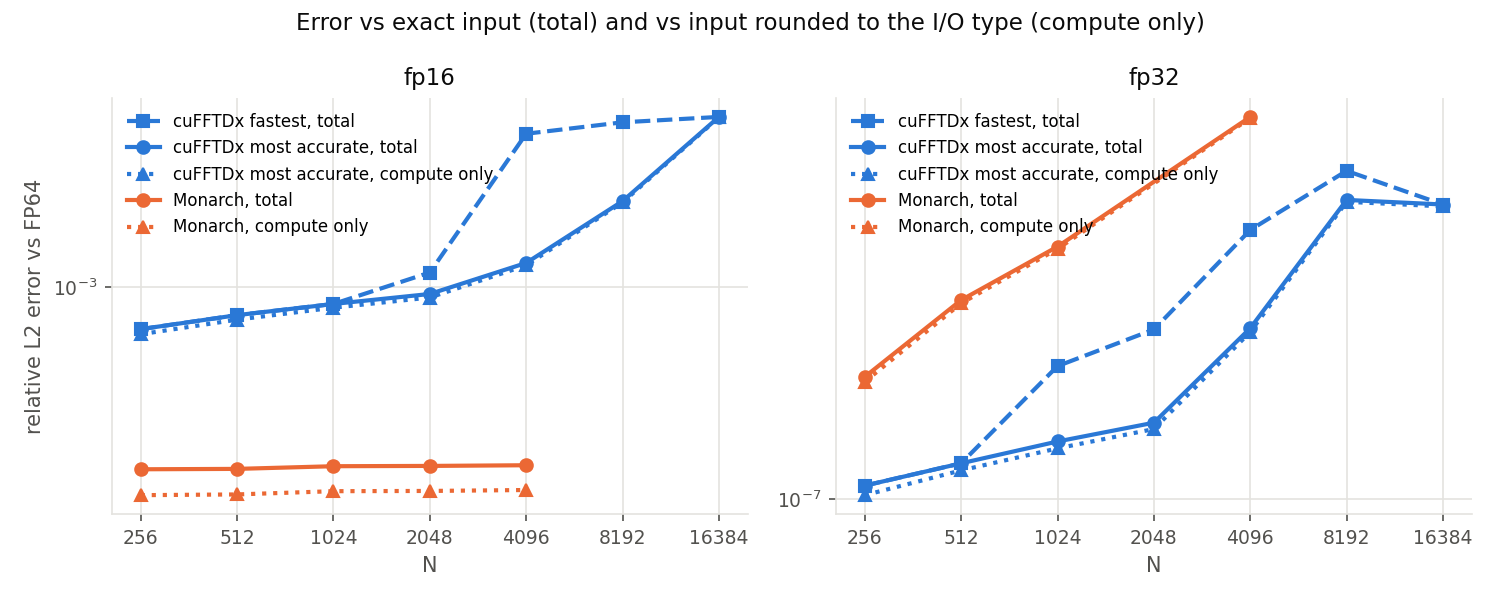
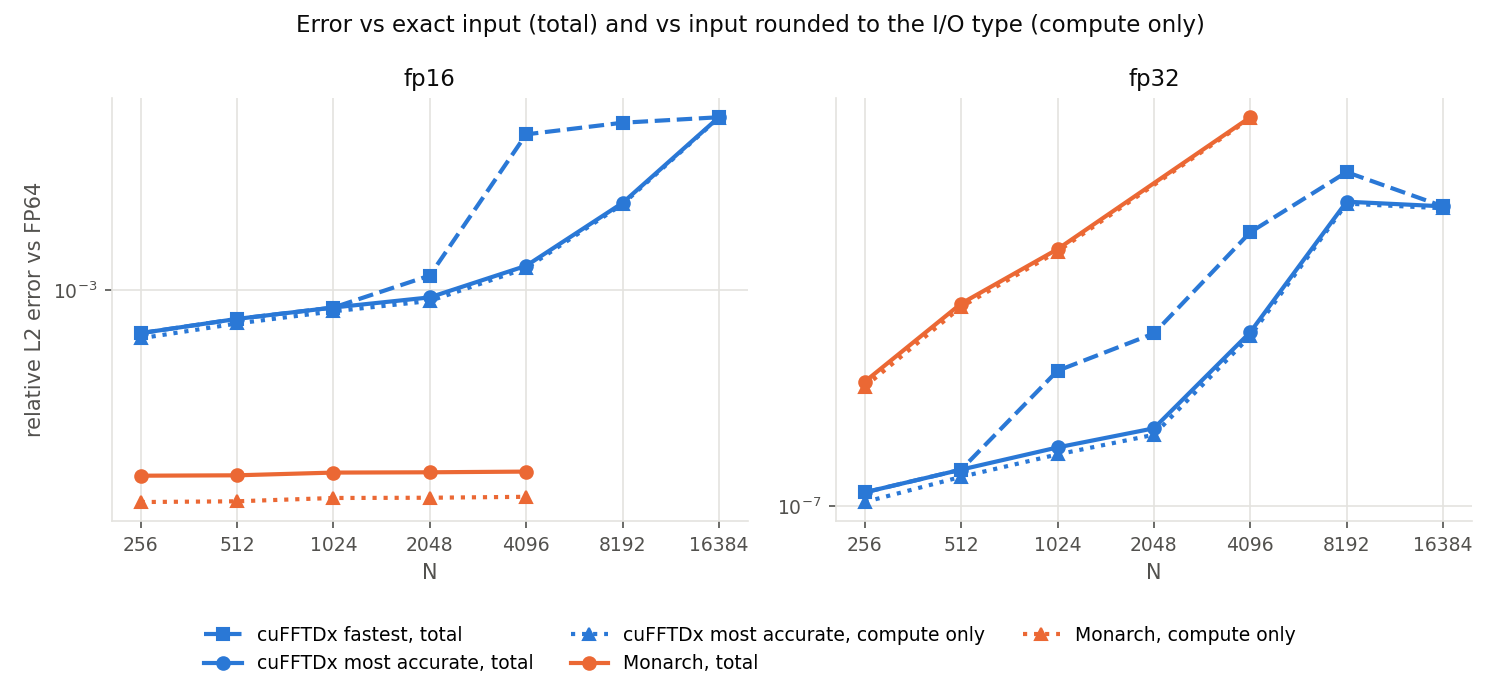
move figure legends below the axes so they do not cover the curves

diff --git a/scripts/final.py b/scripts/final.py
@@ -134,7 +134,7 @@ def main():
 
 
 def figures(sel, reps, later, err, out):
-    fig, axes = plt.subplots(1, 2, figsize=(10, 4), sharey=True)
+    fig, axes = plt.subplots(1, 2, figsize=(10, 4.4), sharey=True)
     for ax, prec in zip(axes, plot.PRECS):
         for role, color, ls, mk, name in (("default", plot.COLOR["cufftdx"], "--", "s", "cuFFTDx default"),
                                          ("tuned", plot.COLOR["cufftdx"], "-", "o", "cuFFTDx tuned"),
@@ -150,13 +150,13 @@ def figures(sel, reps, later, err, out):
         plot.style(ax, "effective GB/s, batch 2^14" if prec == "fp16" else "")
         plot.xticks(ax, sorted({n for (_, p, n) in sel if p == prec}))
         ax.set_title(prec, color=plot.INK, fontsize=11)
-    axes[0].legend(frameon=False, fontsize=9)
+    fig.legend(*axes[0].get_legend_handles_labels(), loc="lower center", ncol=3, frameon=False, fontsize=9)
     fig.suptitle("Throughput, configuration fixed on repeat 1, mean and range over repeats 2-3",
                  color=plot.INK, fontsize=11)
-    fig.tight_layout()
+    fig.tight_layout(rect=(0, 0.07, 1, 1))
     fig.savefig(os.path.join(out, "throughput_tuned.png"), dpi=150)
 
-    fig, axes = plt.subplots(1, 2, figsize=(10, 4))
+    fig, axes = plt.subplots(1, 2, figsize=(10, 4.6))
     for ax, prec in zip(axes, plot.PRECS):
         for role, color, mk, name, both in (("tuned", plot.COLOR["cufftdx"], "s", "cuFFTDx fastest", False),
                                             ("accurate", plot.COLOR["cufftdx"], "o", "cuFFTDx most accurate", True),
@@ -173,10 +173,11 @@ def figures(sel, reps, later, err, out):
         plot.style(ax, "relative L2 error vs FP64" if prec == "fp16" else "", logy=True)
         plot.xticks(ax, sorted({p[0] for k in err if k[1] == prec for p in err[k]}))
         ax.set_title(prec, color=plot.INK, fontsize=11)
-        ax.legend(frameon=False, fontsize=8)
+    # legend outside the axes: inside, it covered the fp32 curves
+    fig.legend(*axes[0].get_legend_handles_labels(), loc="lower center", ncol=3, frameon=False, fontsize=9)
     fig.suptitle("Error vs exact input (total) and vs input rounded to the I/O type (compute only)",
                  color=plot.INK, fontsize=11)
-    fig.tight_layout()
+    fig.tight_layout(rect=(0, 0.12, 1, 1))
     fig.savefig(os.path.join(out, "error_decomposition.png"), dpi=150)
     print(f"\nfigures in {out}")
 
